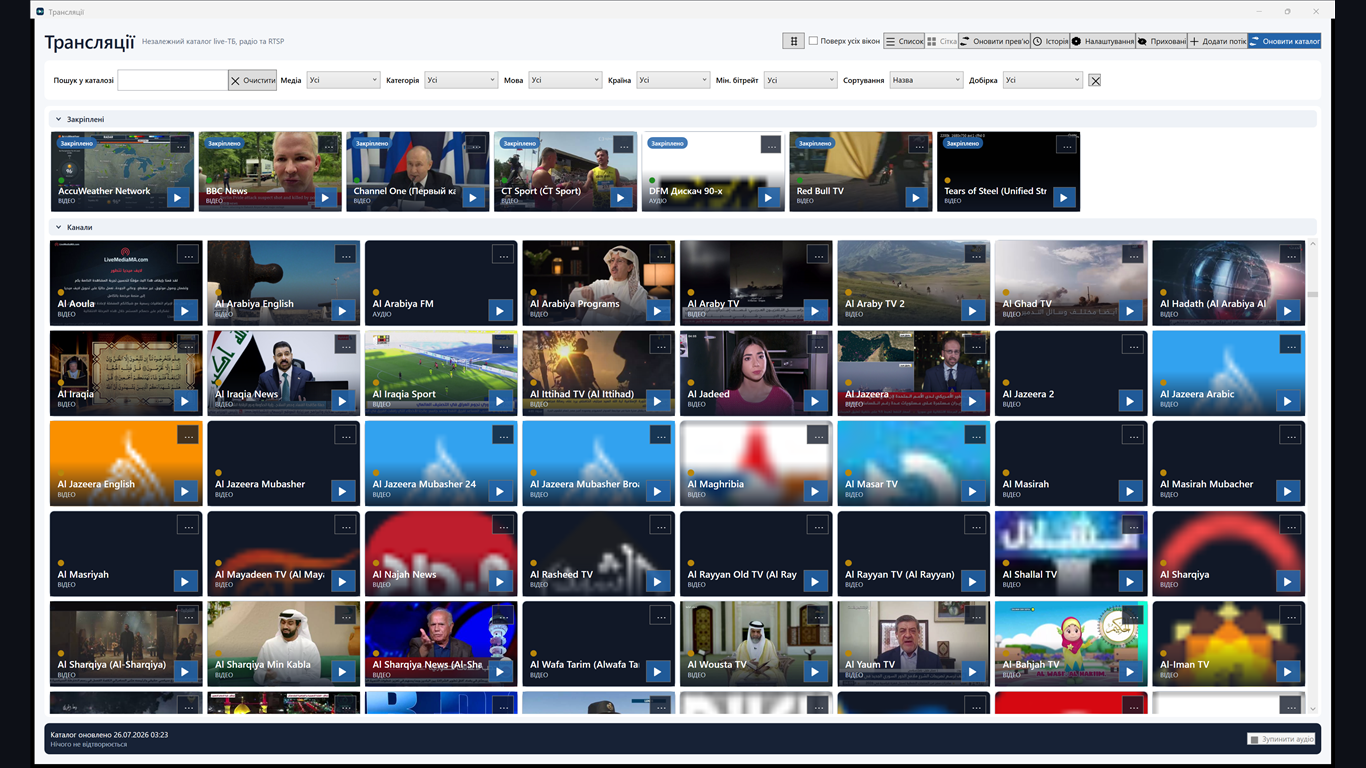
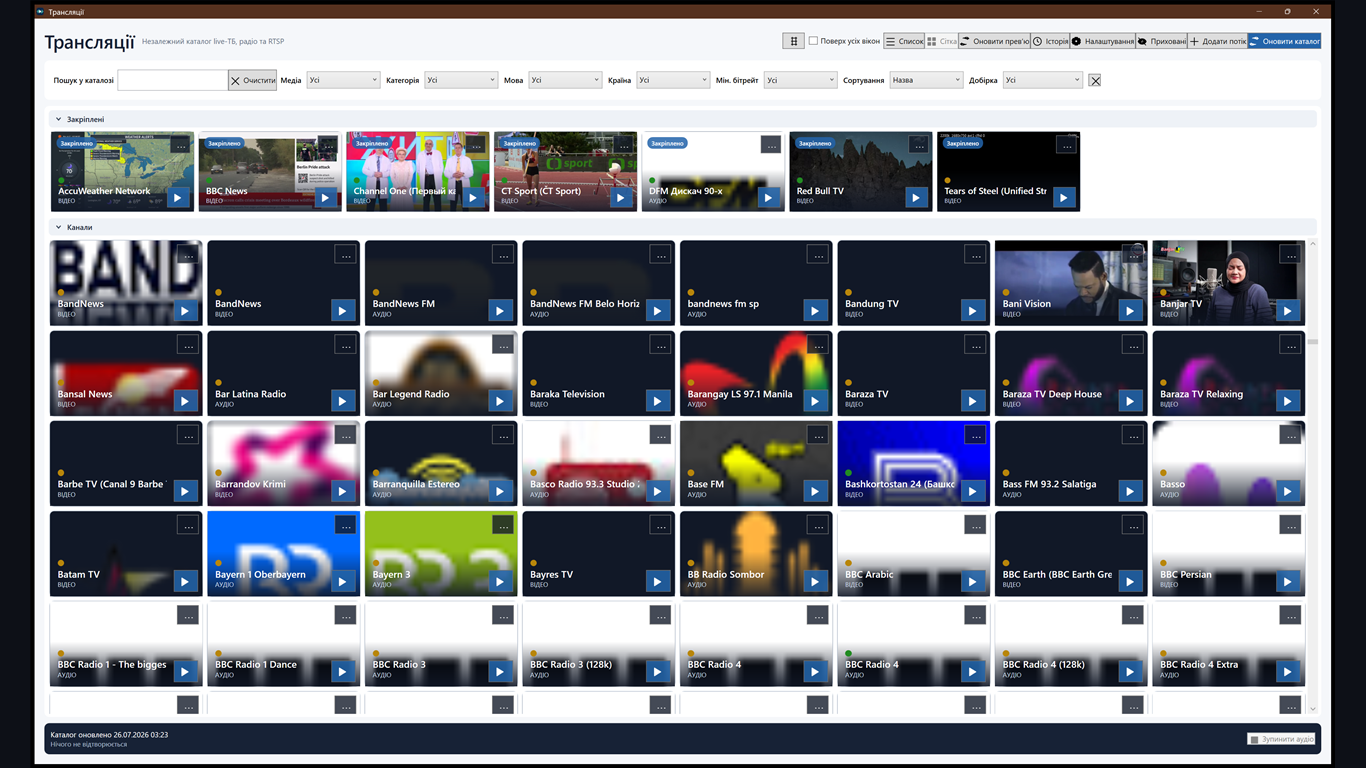
Proofread every Ukrainian surface against its English source
The thirteen-language rollout produced the Ukrainian copy without a native
proofreading pass. This audits all five Ukrainian surfaces - the app dictionary,
README.uk.md, the site copy deck, the Store listing deck and the winget locale -
against their English sources of truth and fixes what a native reader stumbles
on.

Terminology. "stream" is now uniformly "потік". The SP-0030 block was the only
place rendering it "трансляція", which collides with "Трансляції", the localized
product name: "Видалити завантажені трансляції" reads as deleting the
application rather than its streams. The glossary claimed the opposite for
Ukrainian on three of seven terms - stream, collection and preview - and the
shipped dictionary was right on all three, so the glossary row now follows the
dictionary and records why. Nothing gates this drift today; the parity tests
check keys, placeholders and layout direction, not glossary conformance.

Grammar. "Трансляції" is grammatically plural, so its genitive is "Трансляцій",
and a bare "У Трансляції" read as a locative singular. The Store deck handled
the name three different ways across four sentences and now uses one.

Russisms and calques removed: "наглядну сітку" (supervision, not visual) ->
"наочну", "відключними" (not a Ukrainian word) -> "які можна вимкнути",
"розкладом" (a timetable) -> "розкладкою", "за замовчуванням" -> "за
умовчанням", "поки немає" -> "ще немає", "слідує за Windows" -> "успадковує
мову Windows".
[…]

diff --git a/src/StreamsPlayer.App/Localization.uk.xaml b/src/StreamsPlayer.App/Localization.uk.xaml
@@ -18,7 +18,7 @@
     <sys:String x:Key="ChannelPreviewsOfferTip">Один раз завантажить близько 11 МБ і заповнить сітку, не під’єднуючись до кожного каналу.</sys:String>
     <sys:String x:Key="ChannelPreviewsDownload">Завантажити картинки</sys:String>
     <sys:String x:Key="ChannelPreviewsNotNow">Не зараз</sys:String>
-    <sys:String x:Key="ChannelPreviewsWorking">Готуємо картинки прев’ю.. готово {0}</sys:String>
+    <sys:String x:Key="ChannelPreviewsWorking">Готуємо картинки прев’ю.. готово: {0}</sys:String>
     <sys:String x:Key="ChannelPreviewsDone">Додано картинок прев’ю: {0}</sys:String>
     <sys:String x:Key="ChannelPreviewsUnavailable">Цей комп’ютер не може відкрити набір картинок. Прев’ю працюють як раніше.</sys:String>
     <sys:String x:Key="ChannelPreviewsFailed">Не вдалося завантажити картинки прев’ю.</sys:String>
@@ -48,7 +48,7 @@
     <sys:String x:Key="BitrateValue">{0} кбіт/с</sys:String>
     <sys:String x:Key="LiveLabel">Прямий ефір</sys:String>
     <sys:String x:Key="OnDemandLabel">На вимогу</sys:String>
-    <sys:String x:Key="RegionRestrictedLabel">Лише для регіону</sys:String>
+    <sys:String x:Key="RegionRestrictedLabel">Обмежено регіоном</sys:String>
     <sys:String x:Key="RegionRestrictedTip">Упорядник каталогу не зміг відкрити цей канал зі своєї країни. У регіоні мовлення він усе ж може працювати.</sys:String>
     <sys:String x:Key="SortBy">Сортування</sys:String>
     <sys:String x:Key="SortOrderTip">Порядок сортування</sys:String>
@@ -66,7 +66,7 @@
     <sys:String x:Key="ExpandSectionTip">Розгорнути розділ</sys:String>
     <sys:String x:Key="MoreActionsTip">Інші дії</sys:String>
     <sys:String x:Key="MoreActionsName">Інші дії з потоком</sys:String>
-    <sys:String x:Key="EmptyCatalog">Потоків поки немає. Додайте URL або оновіть каталог.</sys:String>
+    <sys:String x:Key="EmptyCatalog">Потоків ще немає. Додайте URL або оновіть каталог.</sys:String>
     <sys:String x:Key="CatalogProgressName">Виконується операція з каталогом</sys:String>
     <sys:String x:Key="Ready">Готово</sys:String>
     <sys:String x:Key="NothingPlaying">Нічого не відтворюється</sys:String>
@@ -133,14 +133,17 @@
     <sys:String x:Key="InvalidUrl">Введіть коректну адресу http, https або rtsp.</sys:String>
     <sys:String x:Key="InvalidUrlTitle">Некоректний URL</sys:String>
     <sys:String x:Key="PlayerWindowTitle">Відео - Трансляції</sys:String>
+    <!-- SP-0034: a window title composed from a subject and the window's own name. Keyed rather than
+         interpolated so the order and the separator can differ per language, which right-to-left
+         layouts need. {0} is the subject (a station, a stream), {1} names the window. -->
     <sys:String x:Key="WindowTitleWithSubject">{0} - {1}</sys:String>
     <sys:String x:Key="Buffering">Буферизація…</sys:String>
     <sys:String x:Key="BufferingProgress">Буферизація… {0}%</sys:String>
     <sys:String x:Key="PlayingLive">Прямий ефір</sys:String>
-    <sys:String x:Key="ReconnectingAttempt">Перепідключення… (спроба {0} з {1})</sys:String>
-    <sys:String x:Key="ReconnectingAudioAttempt">Перепідключення до {0}… (спроба {1} з {2})</sys:String>
+    <sys:String x:Key="ReconnectingAttempt">Повторне підключення… (спроба {0} з {1})</sys:String>
+    <sys:String x:Key="ReconnectingAudioAttempt">Повторне підключення до {0}… (спроба {1} з {2})</sys:String>
     <sys:String x:Key="PlayerUnavailable">Потік недоступний</sys:String>
-    <sys:String x:Key="PlayerUnsupported">Цей формат потоку не підтримується медіабекендом Windows.</sys:String>
+    <sys:String x:Key="PlayerUnsupported">Цей формат потоку не підтримується медіарушієм Windows.</sys:String>
     <sys:String x:Key="FailureDialogMessage">Не вдалося відтворити «{0}».</sys:String>
     <sys:String x:Key="FailureRegionRestricted">Каталог позначає цей канал як доступний лише у своєму регіоні: із країни упорядника він не відповідав. Він може працювати, якщо ви перебуваєте в регіоні мовлення.</sys:String>
     <sys:String x:Key="FailureRetry">Повторити</sys:String>
@@ -156,7 +159,7 @@
     <sys:String x:Key="HiddenChannelsEmpty">Прихованих каналів немає.</sys:String>
     <sys:String x:Key="Unhide">Показати</sys:String>
     <sys:String x:Key="Close">Закрити</sys:String>
-    <!-- SP-0019 історія прослуховування -->
+    <!-- SP-0019 listening history -->
     <sys:String x:Key="HistoryTitle">Нещодавно відтворені</sys:String>
     <sys:String x:Key="HistoryOpen">Історія</sys:String>
     <sys:String x:Key="HistoryTip">Канали, які ви нещодавно відтворювали</sys:String>
@@ -169,7 +172,7 @@
     <sys:String x:Key="Fullscreen">На весь екран</sys:String>
     <sys:String x:Key="ExitFullscreen">Вийти з повноекранного режиму</sys:String>
     <sys:String x:Key="FullscreenTip">Перемкнути повноекранний режим (F11)</sys:String>
-    <sys:String x:Key="Mute">Без звуку</sys:String>
+    <sys:String x:Key="Mute">Вимкнути звук</sys:String>
     <sys:String x:Key="Unmute">Увімкнути звук</sys:String>
     <sys:String x:Key="MuteTip">Увімкнути або вимкнути звук відео</sys:String>
     <sys:String x:Key="SaveFrameAsIcon">Зберегти значок</sys:String>
@@ -186,7 +189,7 @@
     <sys:String x:Key="Settings">Налаштування</sys:String>
     <sys:String x:Key="SettingsTip">Відкрити рідко змінювані параметри та відомості про застосунок</sys:String>
     <sys:String x:Key="SettingsName">Відкрити налаштування</sys:String>
-    <sys:String x:Key="SettingsWindowTitle">Налаштування Трансляції</sys:String>
+    <sys:String x:Key="SettingsWindowTitle">Налаштування «Трансляцій»</sys:String>
     <sys:String x:Key="GridSettings">Сітка</sys:String>
     <sys:String x:Key="StreamTileSizeLabel">Розмір плитки потоку</sys:String>
     <sys:String x:Key="TileSmall">Малий</sys:String>
@@ -198,9 +201,9 @@
     <sys:String x:Key="KeepAwakeDuringPlayback">Не давати комп’ютеру засинати під час відтворення</sys:String>
     <sys:String x:Key="KeepAwakeDuringPlaybackTip">Не давати системі засинати за таймером бездіяльності, доки грає потік; для відео екран також залишається увімкненим</sys:String>
     <sys:String x:Key="SystemMediaControls">Показувати системні елементи керування медіа та реагувати на мультимедійні клавіші</sys:String>
-    <sys:String x:Key="SystemMediaControlsTip">Публікувати станцію, що грає, у медіапанелі Windows, щоб апаратні мультимедійні клавіші керували «Відтворення/Пауза», «Стоп» і «Попередній/Наступний». Типово вимкнено</sys:String>
+    <sys:String x:Key="SystemMediaControlsTip">Публікувати станцію, що грає, у медіапанелі Windows, щоб апаратні мультимедійні клавіші виконували дії «Відтворення/Пауза», «Стоп» і «Попередній/Наступний». Типово вимкнено</sys:String>
     <sys:String x:Key="VideoBackendLabel">Рушій відтворення відео та RTSP</sys:String>
-    <sys:String x:Key="VideoBackendHint">VLC - типовий, перевірений рушій. Перемикайтеся на FlyleafLib лише як на запасний варіант, коли конкретний відео- або RTSP-потік поводиться погано у VLC. Зміна застосується до наступного відкритого програвача.</sys:String>
+    <sys:String x:Key="VideoBackendHint">VLC - типовий, перевірений рушій. Перемикайтеся на FlyleafLib лише як на запасний варіант, коли конкретний відео- або RTSP-потік працює некоректно у VLC. Зміна застосується до наступного відкритого програвача.</sys:String>
     <sys:String x:Key="VideoBackendLibVlc">VLC (типово)</sys:String>
     <sys:String x:Key="VideoBackendFlyleaf">FlyleafLib (експериментально)</sys:String>
     <sys:String x:Key="About">Про програму</sys:String>
@@ -209,11 +212,11 @@
     <sys:String x:Key="Documentation">Інструкція</sys:String>
     <sys:String x:Key="DocumentationTip">Відкрити українську інструкцію на GitHub</sys:String>
     <sys:String x:Key="SourceCode">Вихідний код</sys:String>
-    <sys:String x:Key="SourceCodeTip">Відкрити репозиторій Трансляції на GitHub</sys:String>
+    <sys:String x:Key="SourceCodeTip">Відкрити репозиторій «Трансляцій» на GitHub</sys:String>
     <sys:String x:Key="Website">Сайт</sys:String>
-    <sys:String x:Key="WebsiteTip">Відкрити сайт Трансляції</sys:String>
+    <sys:String x:Key="WebsiteTip">Відкрити сайт «Трансляцій»</sys:String>
     <sys:String x:Key="Privacy">Конфіденційність</sys:String>
-    <sys:String x:Key="PrivacyTip">Відкрити політику конфіденційності Трансляції</sys:String>
+    <sys:String x:Key="PrivacyTip">Відкрити політику конфіденційності «Трансляцій»</sys:String>
     <sys:String x:Key="AuthorPage">Сторінка автора</sys:String>
     <sys:String x:Key="AuthorPageTip">Відкрити профіль SerZhyAle на GitHub</sys:String>
     <sys:String x:Key="Save">Зберегти</sys:String>
@@ -221,7 +224,7 @@
     <sys:String x:Key="SettingsOpenLinkFailed">Windows не вдалося відкрити це посилання.</sys:String>
     <sys:String x:Key="SettingsOpenLinkFailedTitle">Не вдалося відкрити посилання</sys:String>
     <sys:String x:Key="LaunchShortcuts">Ярлики запуску</sys:String>
-    <sys:String x:Key="NoStreamSelected">Виберіть потік у каталозі, щоб створити запис запуску для нього.</sys:String>
+    <sys:String x:Key="NoStreamSelected">Виберіть потік у каталозі, щоб створити для нього ярлик запуску.</sys:String>
     <sys:String x:Key="CopyLaunchCommand">Копіювати команду</sys:String>
     <sys:String x:Key="CopyLaunchCommandTip">Скопіювати команду запуску вибраного потоку</sys:String>
     <sys:String x:Key="CreateDesktopShortcut">Створити ярлик на робочому столі</sys:String>
@@ -232,7 +235,7 @@
     <sys:String x:Key="DesktopShortcutFailed">Windows не вдалося створити ярлик на робочому столі.</sys:String>
     <sys:String x:Key="LaunchArgumentsInvalid">Використовуйте --url &lt;адреса&gt; або --id &lt;GUID каналу&gt;.</sys:String>
     <sys:String x:Key="LaunchChannelNotFound">Запитаного потоку більше немає у вашому каталозі.</sys:String>
-    <!-- SP-0016 імпорт/експорт M3U -->
+    <!-- SP-0016 M3U import/export -->
     <sys:String x:Key="PlaylistPortability">Плейлисти (M3U)</sys:String>
     <sys:String x:Key="PlaylistPortabilityHint">Імпортуйте канали з файлу M3U чи за посиланням на плейлист або експортуйте додані вами канали у файл M3U.</sys:String>
     <sys:String x:Key="ImportListPlain">Імпорт списку</sys:String>
@@ -243,7 +246,7 @@
     <sys:String x:Key="ImportFromUrl">За посиланням…</sys:String>
     <sys:String x:Key="ImportFileFilter">Плейлисти (*.m3u;*.m3u8)|*.m3u;*.m3u8|Усі файли (*.*)|*.*</sys:String>
     <sys:String x:Key="ImportFromUrlTitle">Імпорт за посиланням</sys:String>
-    <sys:String x:Key="ImportFromUrlPrompt">Введіть адресу http або https плейлиста M3U.</sys:String>
+    <sys:String x:Key="ImportFromUrlPrompt">Введіть http- або https-адресу плейлиста M3U.</sys:String>
     <sys:String x:Key="ImportUrlInvalid">Введіть коректну адресу плейлиста http або https.</sys:String>
     <sys:String x:Key="ImportPreviewTitle">Попередній перегляд імпорту</sys:String>
     <sys:String x:Key="ImportCountNew">Нових каналів буде додано</sys:String>
@@ -268,15 +271,18 @@
     <sys:String x:Key="ExportCredentialWarning">В адресі одного або кількох каналів є пароль чи токен. В експортованому файлі він зберігається у відкритому вигляді. Продовжити?</sys:String>
     <sys:String x:Key="ExportResult">Експортовано каналів: {0}.</sys:String>
     <sys:String x:Key="ExportFailed">Windows не вдалося записати файл експорту.</sys:String>
-    <!-- SP-0030 видалення завантажених трансляцій каталогу -->
-    <sys:String x:Key="DeleteDownloaded">Видалити завантажені трансляції</sys:String>
+    <!-- SP-0030 delete downloaded catalog streams -->
+    <sys:String x:Key="DeleteDownloaded">Видалити завантажені потоки</sys:String>
     <sys:String x:Key="DeleteDownloadedTip">Видалити всі потоки із завантаженого каталогу й залишити лише ваші канали</sys:String>
     <sys:String x:Key="DeleteDownloadedHint">Залишити лише ваші канали: буде видалено потоки із завантаженого каталогу. Додані та імпортовані канали залишаться. «Оновити каталог» завантажить їх знову.</sys:String>
-    <sys:String x:Key="DeleteDownloadedTitle">Видалення завантажених трансляцій</sys:String>
-    <sys:String x:Key="DeleteDownloadedConfirm">Видалити всі завантажені з каталогу трансляції ({0:N0})? Додані та імпортовані канали залишаться. Скасувати це неможливо, але «Оновити каталог» завантажить їх знову.</sys:String>
-    <sys:String x:Key="DeleteDownloadedNone">Завантажених трансляцій каталогу немає.</sys:String>
-    <sys:String x:Key="DeleteDownloadedResult">Видалено завантажених трансляцій: {0:N0}.</sys:String>
-    <!-- SP-0029 засіб вибору мови -->
+    <sys:String x:Key="DeleteDownloadedTitle">Видалення завантажених потоків</sys:String>
+    <sys:String x:Key="DeleteDownloadedConfirm">Видалити всі завантажені з каталогу потоки ({0:N0})? Додані та імпортовані канали залишаться. Цю дію не можна скасувати, але «Оновити каталог» завантажить їх знову.</sys:String>
+    <sys:String x:Key="DeleteDownloadedNone">Завантажених потоків каталогу немає.</sys:String>
+    <sys:String x:Key="DeleteDownloadedResult">Видалено завантажених потоків: {0:N0}.</sys:String>
+    <!-- SP-0029 language picker -->
+    <!-- SP-0034: endonyms, each language named in its own language and script. Identical in every
+         dictionary on purpose - a picker that renamed a language when you switched locale would be
+         unusable for the person trying to get back. Keyed by the AppLanguage member name. -->
     <sys:String x:Key="LanguageEnglish">English</sys:String>
     <sys:String x:Key="LanguageRussian">Русский</sys:String>
     <sys:String x:Key="LanguageUkrainian">Українська</sys:String>
@@ -291,9 +297,14 @@
     <sys:String x:Key="LanguageArabic">العربية</sys:String>
     <sys:String x:Key="LanguageUrdu">اردو</sys:String>
     <sys:String x:Key="LanguagePickerName">Мова інтерфейсу</sys:String>
+    <!-- SP-0034: layout direction for this language, bound by every window's root element so it follows
+         the runtime dictionary swap. InterfaceLanguages stays authoritative - the parity gate fails if
+         this value and the registry's RightToLeft flag ever disagree. -->
     <FlowDirection x:Key="UiFlowDirection">LeftToRight</FlowDirection>
+    <!-- SP-0034 decision 4: translations are agent-produced without native proofreading, and the
+         product says so where a user can see it. Do not soften this into a claim of proofread quality. -->
     <sys:String x:Key="MachineTranslationNotice">Переклади інтерфейсу виконано машинно й не перевірено носіями мови.</sys:String>
-    <!-- SP-0022 таймер сну -->
+    <!-- SP-0022 audio sleep timer -->
     <sys:String x:Key="SleepTimer">Таймер сну</sys:String>
     <sys:String x:Key="SleepTimerTip">Автоматично зупинити радіо через заданий час</sys:String>
     <sys:String x:Key="SleepTimerActiveTip">Відтворення зупиниться о {0}</sys:String>
@@ -303,7 +314,7 @@
     <sys:String x:Key="SleepTimerSet">Таймер сну встановлено на {0}</sys:String>
     <sys:String x:Key="SleepTimerCancelled">Таймер сну скасовано.</sys:String>
     <sys:String x:Key="SleepTimerEnded">Таймер сну зупинив відтворення.</sys:String>
-    <sys:String x:Key="SleepTimerInvalidTime">Введіть час у форматі ГГ:ХХ у межах найближчих 24 годин.</sys:String>    <!-- SP-0017 іменовані добірки -->
+    <sys:String x:Key="SleepTimerInvalidTime">Введіть час у форматі ГГ:ХХ у межах найближчих 24 годин.</sys:String>    <!-- SP-0017 named collections -->
     <sys:String x:Key="CollectionLabel">Добірка</sys:String>
     <sys:String x:Key="CollectionFilterTip">Показати лише канали однієї добірки</sys:String>
     <sys:String x:Key="CollectionFilterName">Фільтр добірки</sys:String>
@@ -314,7 +325,7 @@
     <sys:String x:Key="CollectionManageTitle">Добірки</sys:String>
     <sys:String x:Key="CollectionRename">Назва добірки</sys:String>
     <sys:String x:Key="CollectionDelete">Видалити</sys:String>
-    <sys:String x:Key="CollectionsEmpty">Добірок ще немає. Введіть назву вище, щоб створити.</sys:String>
+    <sys:String x:Key="CollectionsEmpty">Добірок ще немає. Введіть назву вище, щоб створити нову.</sys:String>
     <sys:String x:Key="CollectionCount">каналів: {0:N0}</sys:String>
     <sys:String x:Key="CollectionCreated">Добірку {0} створено</sys:String>
     <sys:String x:Key="CollectionNameInvalid">Введіть непорожню назву, яка ще не використовується.</sys:String>

diff --git a/docs/uk/index.html b/docs/uk/index.html
@@ -145,10 +145,10 @@
               <span class="kicker">Інтернет-радіо · Live-відео · RTSP</span>
             </div>
           </div>
-          <p class="lead">Лаконічний застосунок для Windows: відкривайте готовий каталог, додавайте власні потоки й слухайте - без облікового запису, без реклами та без фонової активності, якої ви не запускали.</p>
+          <p class="lead">Лаконічний застосунок для Windows: відкривайте готовий каталог, додавайте власні потоки й відтворюйте їх - без облікового запису, без реклами та без фонової активності, якої ви не запускали.</p>
           <div class="facts" aria-label="Ключові факти">
             <span class="fact">Windows 10 / 11</span>
-            <span class="fact">Безкоштовно · Джерела MIT</span>
+            <span class="fact">Безкоштовно · Вихідний код під MIT</span>
             <span class="fact">Без облікового запису</span>
             <span class="fact">Без телеметрії</span>
             <span class="fact">13 мов інтерфейсу</span>
@@ -196,7 +196,7 @@
               <li>Радіо грає в головному вікні.</li>
               <li>Live-відео та RTSP відкриваються в окремому вікні плеєра.</li>
               <li>Буфер прямого ефіру ~10 секунд із видимим прогресом буферизації.</li>
-              <li>Гучність і вимкнення звуку запам'ятовуються.</li>
+              <li>Гучність і вимкнення звуку запам’ятовуються.</li>
             </ul>
           </article>
           <article class="card cap">
@@ -210,9 +210,9 @@
           <article class="card cap">
             <h3><span class="tag">04</span><span>Візуальна сітка</span></h3>
             <ul>
-              <li>Сітка захоплює видимі HTTP(S) відеопрев'ю.</li>
+              <li>Сітка захоплює видимі HTTP(S) відеопрев’ю.</li>
               <li>Зберігає локально останні 64 кадри.</li>
-              <li>Автооновлення прев'ю можна вимкнути.</li>
+              <li>Автооновлення прев’ю можна вимкнути.</li>
             </ul>
           </article>
           <article class="card cap">
@@ -221,7 +221,7 @@
               <li>Додайте потік за URL - без облікового запису.</li>
               <li>Ваші додані та імпортовані потоки переживають оновлення каталогу.</li>
               <li>Локальні позначки відтворення: ОК / помилка.</li>
-              <li>Перемикання всього інтерфейсу між тринадцятьма мовами; вибір зберігається.</li>
+              <li>Перемикання всього інтерфейсу між тринадцятьма мовами; вибір відновлюється під час наступного запуску.</li>
             </ul>
           </article>
           <article class="card cap">
@@ -237,7 +237,7 @@
 
       <section class="section" id="use" aria-labelledby="use-title">
         <h2 class="section-heading" id="use-title"><span class="hash">#</span><span>Як користуватися</span></h2>
-        <p class="section-description">Відкрийте й виберіть канал - ось і весь сценарій. Встановіть із Microsoft Store, через winget або портативним ZIP - або запускайте з вихідного коду; потік можна відкрити й прямо з командного рядка.</p>
+        <p class="section-description">Відкрийте й виберіть канал - ось і весь сценарій. Встановіть із Microsoft Store, через winget або з портативного ZIP - або запускайте з вихідного коду; потік можна відкрити й прямо з командного рядка.</p>
         <ol class="steps">
           <li class="step">
             <div>
@@ -249,7 +249,7 @@
           <li class="step">
             <div>
               <h3>Вибрати й слухати</h3>
-              <p>Відкрийте каталог, відфільтруйте або знайдіть потрібне й виберіть канал. Радіо починається в головному вікні; відео та RTSP відкриваються у вікні плеєра. Запуск без вибраного каналу відновлює останній відтворений.</p>
+              <p>Відкрийте каталог, відфільтруйте або знайдіть потрібне й виберіть канал. Радіо запускається в головному вікні; відео та RTSP відкриваються у вікні плеєра. Запуск без вибраного каналу відновлює останній відтворений.</p>
             </div>
           </li>
           <li class="step">
@@ -262,7 +262,7 @@
           <li class="step">
             <div>
               <h3>Зберегти канал у ярлик</h3>
-              <p>Виберіть збережений канал, відкрийте налаштування та скористайтесь «Скопіювати команду» або «Створити ярлик на робочому столі». Обидва використовують збережений id каналу.</p>
+              <p>Виберіть збережений канал, відкрийте «Налаштування» та скористайтеся кнопкою «Копіювати команду» або «Створити ярлик на робочому столі». Обидва використовують збережений id каналу.</p>
               <pre dir="ltr"><code>StreamsPlayer.exe <span class="tok">--id</span> "channel-guid"</code></pre>
             </div>
           </li>
@@ -271,7 +271,7 @@
 
       <section class="section" id="distribution" aria-labelledby="distribution-title">
         <h2 class="section-heading" id="distribution-title"><span class="hash">#</span><span>Поширення</span></h2>
-        <p class="section-description">Усі три канали доступні. Встановіть із Microsoft Store, завантажте портативний ZIP з останнього релізу на GitHub або встановіть командою <code dir="ltr">winget install SerZhyAle.StreamsPlayer</code>.</p>
+        <p class="section-description">Усі три способи встановлення доступні. Встановіть із Microsoft Store, завантажте портативний ZIP з останнього релізу на GitHub або встановіть командою <code dir="ltr">winget install SerZhyAle.StreamsPlayer</code>.</p>
         <div class="distribution-grid">
           <a class="channel" href="https://github.com/SerZhyAle/StreamsPlayer/releases/latest">
             <span class="channel-mark">ZIP</span>

diff --git a/docs/uk/privacy.html b/docs/uk/privacy.html
@@ -134,13 +134,13 @@
 
     <main class="container privacy-main" id="content">
       <span class="eyebrow">STREAMS Player · Конфіденційність</span>
-      <h1>Приватність за замовчуванням.</h1>
+      <h1>Приватність за умовчанням.</h1>
       <p class="privacy-intro">У STREAMS Player немає облікового запису, реклами, аналітики, телеметрії чи сервісу, яким керує автор.</p>
 
       <div class="privacy-card">
         <section class="privacy-section">
           <h2>Доступ до мережі</h2>
-          <p>Застосунок підключається до мережі під час явного оновлення каталогу, відтворення вибраного потоку й оновлення видимих відеопрев'ю, доки активний режим сітки. Запити надсилаються відповідному постачальнику каталогу чи потоку й регулюються його політиками.</p>
+          <p>Застосунок підключається до мережі під час явного оновлення каталогу, відтворення вибраного потоку й оновлення видимих відеопрев’ю, доки активний режим сітки. Запити надсилаються відповідному постачальнику каталогу чи потоку й регулюються його політиками.</p>
         </section>
         <section class="privacy-section">
           <h2>Локальні дані</h2>

diff --git a/docs/localization/glossary.md b/docs/localization/glossary.md
@@ -33,7 +33,7 @@ reconciling a window that calls the same thing by two names.
 |---|---|---|---|---|---|---|---|
 | English (`en`) | stream | catalog | channel | update | pinned | collection | preview |
 | Russian (`ru`) | трансляция | каталог | канал | обновить | закреплённый | подборка | превью |
-| Ukrainian (`uk`) | трансляція | каталог | канал | оновити | закріплений | підбірка | превʼю |
+| Ukrainian (`uk`) | потік | каталог | канал | оновити | закріплений | добірка | прев’ю |
 | German (`de`) | Stream | Katalog | Kanal | aktualisieren | angeheftet | Sammlung | Vorschau |
 | Italian (`it`) | flusso | catalogo | canale | aggiorna | fissato | raccolta | anteprima |
 | Spanish (`es`) | transmisión | catálogo | canal | actualizar | fijado | colección | vista previa |
@@ -61,3 +61,6 @@ reconciling a window that calls the same thing by two names.
   for both, the stream term takes the broadcast sense and the channel term the list-row sense.
 - **refresh** is a verb in the UI ("Update catalog"), never a noun, so the imperative form is listed.
 - **preview** in Arabic and Urdu uses the "viewing/inspection" sense rather than a transliteration.
+- **stream** in Ukrainian is "потік", not "трансляція", because `Трансляції` is the localized product
+  name. Rendering the unit of playback the same way would collide with the product name in the same
+  window - "Видалити завантажені трансляції" reads as deleting the application, not its streams.
